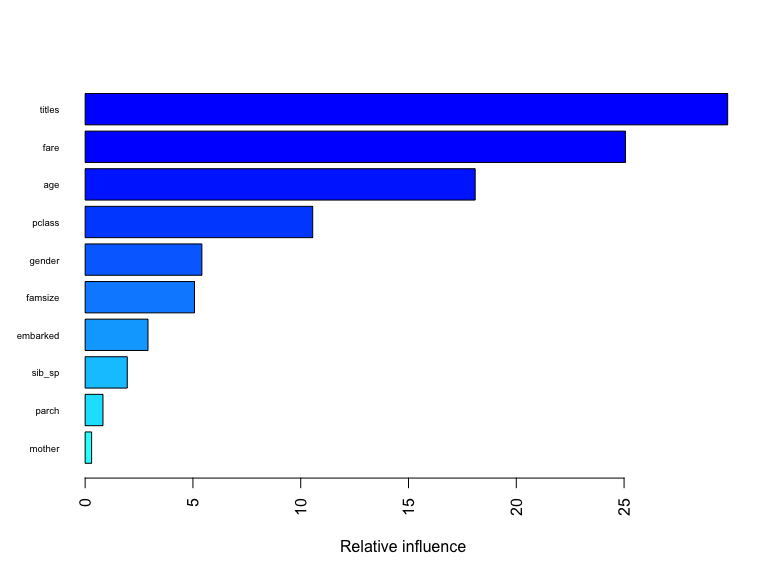
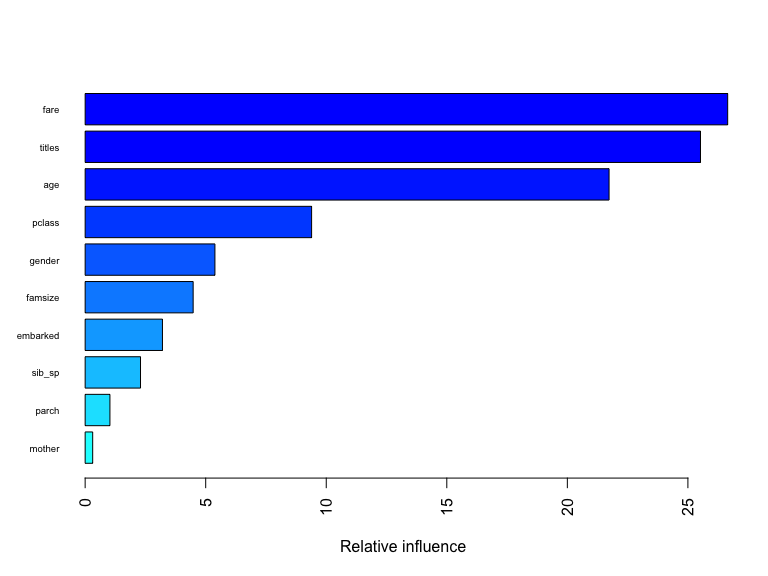
overhauled this project by running additional classification models

diff --git a/README.md b/README.md
@@ -421,7 +421,7 @@ test_df = test_data[,-1]
 ```
 
 Next, I will optimize a randomForest and Gradient Boosting models with
-`survived` as the response variable against all predictors.
+`survival` as the response variable against all predictors.
 
 ### Random Forest Model
 
@@ -449,10 +449,18 @@ ggplot(rf.fit, highlight = TRUE)
 
 <img src="README_files/figure-gfm/unnamed-chunk-21-1.png" width="90%" />
 
+This randomForest model was tuned and optimized, resulting in the
+highest **Accuracy** of 0.8737395 over the optimization range.
+
+**Variable Importance for RandomForest
+model:**
+
+<img src="README_files/figure-gfm/variable importance-1.png" width="90%" />
+
 This figure shows a graphical representation of the variable importance
 in the `titanic` data. We see the mean decrease in Gini index for each
 variable, relative to the largest. The variables with the largest mean
-decrease in Gini index are `titles`, `gender`, and `fare`.
+decrease in Gini index are `titles`, `fare`, and `gender`.
 
 In this figure, the test error is displayed as a function of the number
 of trees. Each colored line correspond to the error rates of `survived`,
@@ -482,16 +490,16 @@ summary(gbm.fit$finalModel, las = 2, cex.names = 0.6)
 <img src="README_files/figure-gfm/unnamed-chunk-22-1.png" width="90%" />
 
     ##               var    rel.inf
-    ## titles     titles 29.8061376
-    ## fare         fare 25.0616783
-    ## age           age 18.0926636
-    ## pclass     pclass 10.5565171
-    ## gender     gender  5.4151464
-    ## famsize   famsize  5.0723898
-    ## embarked embarked  2.9156831
-    ## sib_sp     sib_sp  1.9537460
-    ## parch       parch  0.8263614
-    ## mother     mother  0.2996766
+    ## fare         fare 26.6500327
+    ## titles     titles 25.5219802
+    ## age           age 21.7303302
+    ## pclass     pclass  9.3927246
+    ## gender     gender  5.3825671
+    ## famsize   famsize  4.4792791
+    ## embarked embarked  3.2064286
+    ## sib_sp     sib_sp  2.2961413
+    ## parch       parch  1.0278034
+    ## mother     mother  0.3127128
 
 ``` r
 # looking at the tuning results
@@ -499,7 +507,7 @@ gbm.fit$bestTune
 ```
 
     ##    n.trees interaction.depth shrinkage n.minobsinnode
-    ## 63    4000                 4     0.005              1
+    ## 74    3000                 8     0.005              1
 
 ``` r
 # plot the performance of the training models
@@ -531,17 +539,17 @@ summary(resamp)
     ## ROC 
     ##          Min.   1st Qu.    Median      Mean   3rd Qu.      Max. NA's
     ## rf  0.8361441 0.8639657 0.8895916 0.8751462 0.8899733 0.8960561    0
-    ## gbm 0.5174465 0.5493412 0.5971014 0.5813585 0.6044118 0.6384916    0
+    ## gbm 0.5074198 0.5548748 0.5911726 0.5809728 0.6197861 0.6316109    0
     ## 
     ## Sens 
-    ##           Min.   1st Qu.    Median      Mean   3rd Qu.      Max. NA's
-    ## rf  0.87272727 0.8899083 0.9000000 0.8997998 0.9181818 0.9181818    0
-    ## gbm 0.08181818 0.1000000 0.1272727 0.1422519 0.1636364 0.2385321    0
+    ##          Min.   1st Qu.    Median      Mean   3rd Qu.      Max. NA's
+    ## rf  0.8727273 0.8899083 0.9000000 0.8997998 0.9181818 0.9181818    0
+    ## gbm 0.1000000 0.1363636 0.1363636 0.1567640 0.1909091 0.2201835    0
     ## 
     ## Spec 
     ##          Min.   1st Qu.    Median      Mean   3rd Qu.      Max. NA's
     ## rf  0.6811594 0.7058824 0.7101449 0.7312020 0.7647059 0.7941176    0
-    ## gbm 0.8260870 0.8382353 0.8382353 0.8538789 0.8550725 0.9117647    0
+    ## gbm 0.8115942 0.8235294 0.8550725 0.8509804 0.8676471 0.8970588    0
 
 ``` r
 # Visualizing RMSE
@@ -550,14 +558,7 @@ bwplot(resamp, metric = "ROC")
 
 <img src="README_files/figure-gfm/unnamed-chunk-23-1.png" width="90%" />
 
-## 
-
-## Receiver Operating Characteristic Curve
-
-# Prediction
-
-Last step in this project is to predict what the survival fate of the
-subjects in the test set would have been using the model built above.
+## Performance of both models on the Testing Data: Predictions
 
 # Conclusion
 
